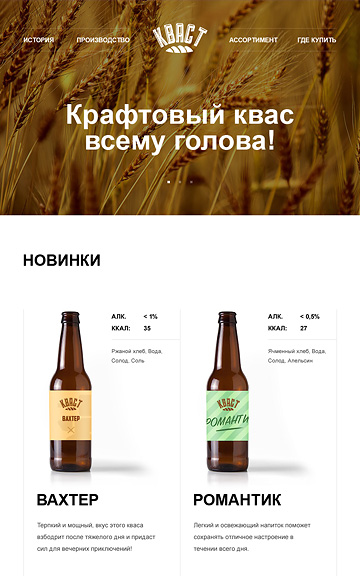
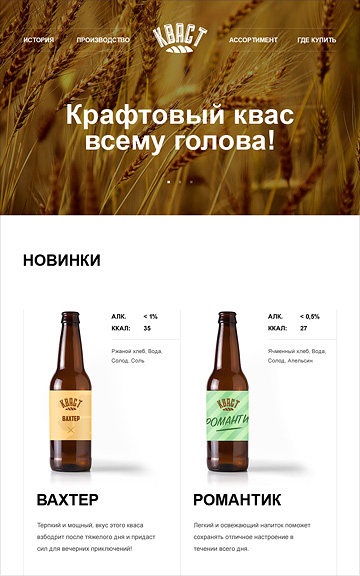
Исправленные декоративные элементы вместе с сетками (1 попытка)

Changed region(s): [[0.9778, 0.375, 1.0, 1.0], [0.0, 0.9688, 0.0306, 1.0]]

diff --git a/css/style.css b/css/style.css
@@ -1,3 +1,11 @@
+html {
+  box-sizing: border-box;
+}
+
+*, *::before, *::after {
+  box-sizing: inherit;
+}
+
 body {
   margin: 0;
   padding: 0;
@@ -34,7 +42,7 @@ label {
 
 .catalog header {
   margin-bottom: 53px;
-  min-height: 307px;
+  padding-bottom: 117px;
 }
 
 .container {
@@ -105,6 +113,7 @@ header h1 {
   font-size: 55px;
   font-weight: 500;
   padding-top: 67px;
+  line-height: 55px;
   text-align: center;
 }
 
@@ -432,7 +441,7 @@ main li {
 
 .range-controls {
   position: relative;
-  height: 41px;
+  height: 80px;
   margin-bottom: 15px;
   padding: 0 20px;
   padding-top: 39px;
@@ -455,8 +464,8 @@ main li {
   position: absolute;
   top: 31px;
   left: 0;
-  width: 4px;
-  height: 4px;
+  width: 20px;
+  height: 20px;
   padding: 0;
   border: 8px solid #fff;
   background-color: #ababab;
@@ -485,9 +494,9 @@ main li {
 }
 
 .price-controls input {
-  width: 60px;
+  width: 80px;
   margin-left: 10px;
-  padding: 8px 10px;
+  padding: 8px 5px;
   font-family: inherit;
   font-size: inherit;
   text-align: center;
@@ -495,6 +504,7 @@ main li {
   border: none;
   border-radius: 5px;
   background-color: #f1f1f1;
+  border: 2px solid #f1f1f1;
 }
 
 .price-controls input:hover {
@@ -550,6 +560,7 @@ fieldset ul {
 }
 
 .filters label {
+  padding: 0;
   color: #283136;
   line-height: 20px;
 }
@@ -563,46 +574,43 @@ fieldset ul {
 
 .filter-input-radio + label::before {
   content: "";
-  width: 17px;
-  height: 17px;
+  width: 25px;
+  height: 25px;
   position: absolute;
   left: 1px;
   top: -4px;
-  border: 4px solid #a6a6a6;
-  border-radius: 50%;
+  background-image: url(../img/radio-off.svg);
 }
 
 .filter-input-radio:checked + label::after {
   content: "";
-  width: 9px;
-  height: 9px;
+  width: 25px;
+  height: 25px;
   position: absolute;
-  left: 8px;
-  top: 3px;
-  background-color: #a6a6a6;
-  border: 1px solid #a6a6a6;
-  border-radius: 50%;
+  left: 1px;
+  top: -4px;
+  background-image: url(../img/radio-on.svg);
 }
 
 .filter-input-checkbox + label::before {
   content: "";
-  width: 20px;
-  height: 20px;
+  width: 27px;
+  height: 23px;
   position: absolute;
   left: 0;
   top: 0;
-  border: 2px solid #a6a6a6;
-  border-radius: 3px;
+  background-image: url(../img/checkbox-off.svg);
+  background-repeat: no-repeat;
 }
 
 .filter-input-checkbox:checked + label::after {
   content: "";
-  width: 25px;
-  height: 22px;
+  width: 27px;
+  height: 23px;
   position: absolute;
-  left: 2px;
-  top: -1px;
-  background-image: url(../img/checkbox.svg);
+  left: 0;
+  top: 0;
+  background-image: url(../img/checkbox-on.svg);
   background-repeat: no-repeat;
 }
 
@@ -622,20 +630,19 @@ fieldset ul {
 }
 
 .filter-input-radio + label:hover::before {
-  border: 4px solid #4d4d4d;
+  background-image: url(../img/radio-off-hover.svg);
 }
 
 .filter-input-radio:checked + label:hover::after {
-  background-color: #4d4d4d;
-  border: 1px solid #4d4d4d;
+  background-image: url(../img/radio-on-hover.svg);
 }
 
 .filter-input-checkbox + label:hover::before {
-  border: 2px solid #4d4d4d;
+  background-image: url(../img/checkbox-off-hover.svg);
 }
 
 .filter-input-checkbox:checked +label:hover::after {
-  background-image: url(../img/checkbox-hover.svg);
+  background-image: url(../img/checkbox-on-hover.svg);
 }
 
 .filters button, .sorting {
@@ -728,6 +735,10 @@ fieldset ul {
   border-color: transparent transparent #cacaca;
 }
 
+.sorting-buttons .active {
+  border-color: #231f20 transparent transparent;
+}
+
 .button-down:hover {
   border-color: #a6a6a6 transparent transparent;
 }
@@ -765,12 +776,12 @@ fieldset ul {
 }
 
 .our-partners-item img {
+  display: block;
   margin-top: -6px;
-  border: 1px solid rgba(0, 1, 1, .1);
 }
 
 .our-partners .description {
-  width: 361px;
+  width: 360px;
   min-height: 165px;
   text-align: center;
   padding: 24px 0 40px;
@@ -975,13 +986,18 @@ footer {
 .map {
   margin-top: 80px;
   height: 420px;
-  background: url(../img/map.jpg) no-repeat 50% 42%;
-  background-size: cover;
+}
+
+.map iframe {
+  position: absolute;
+  width: 100%;
+  height: 420px;
 }
 
 .map .container {
   min-height: 230px;
   padding-top: 55px;
+  z-index: 2;
 }
 
 .map .address {
@@ -1010,7 +1026,8 @@ footer {
 }
 
 .footer-social {
-  padding-top: 72px;	
+  padding-top: 72px;
+  padding-bottom: 54px;
 }
 
 .footer-social .container {
@@ -1057,9 +1074,6 @@ footer {
   fill: #e37376;
 }
 
-.be-friends {
-  max-width: 400px;
-}
 .be-friends h3 {
   margin: 4px 0 11px;
   padding: 0;

diff --git a/catalog.html b/catalog.html
@@ -115,7 +115,7 @@
 		          <li class="sorting-item"><a href="#">По названию</a></li>
 				</ul>
 		        <p class="sorting-buttons">
-		          <a class="button-down" href="#">
+		          <a class="button-down active" href="#">
 				    <span class="visually-hidden">Сортировка по убыванию</span>
 				  </a>
 		          <a class="button-up" href="#">
@@ -232,13 +232,14 @@
 	<footer>
 	  <section class="map">
 	    <h2 class="visually-hidden">Карта</h2>
+		<iframe src="https://yandex.ru/map-widget/v1/-/CGwCrTLp" width="560" height="400" frameborder="0" allowfullscreen="true"></iframe>
 	    <div class="container">
 	      <section class="address">
 	        <h2 class="visually-hidden">Контакты</h2>
 	        <h3>NЁRDS DESIGN STUDIO</h3>
 		    <p>191186, Санкт-Петербург, ул. Б. Конюшенная, д. 19/8 </p>
 		    <span><a class="phone" href="tel:88124502525">тел. +7 (812) 275-75-75</a></span>
-		    <a class="button button-address" href="#">Напишите нам</a>
+		    <a class="button button-address" href="writeus.html">Напишите нам</a>
 		  </section>
 		</div> 
 	  </section>

diff --git a/index.html b/index.html
@@ -144,13 +144,14 @@
 	<footer>
 	  <section class="map">
 	    <h2 class="visually-hidden">Карта</h2>
-	    <div class="container">
+		<iframe src="https://yandex.ru/map-widget/v1/-/CGwCrTLp" width="560" height="400" frameborder="0" allowfullscreen="true"></iframe>
+	    <div class="container"> 
 	      <section class="address">
 	        <h2 class="visually-hidden">Контакты</h2>
 	        <h3>NЁRDS DESIGN STUDIO</h3>
 		    <p>191186, Санкт-Петербург, ул. Б. Конюшенная, д. 19/8 </p>
 		    <span><a class="phone" href="tel:88124502525">тел. +7 (812) 275-75-75</a></span>
-		    <a class="button button-address" href="#">Напишите нам</a>
+		    <a class="button button-address" href="writeus.html">Напишите нам</a>
 		  </section>
 		</div> 
 	  </section>
